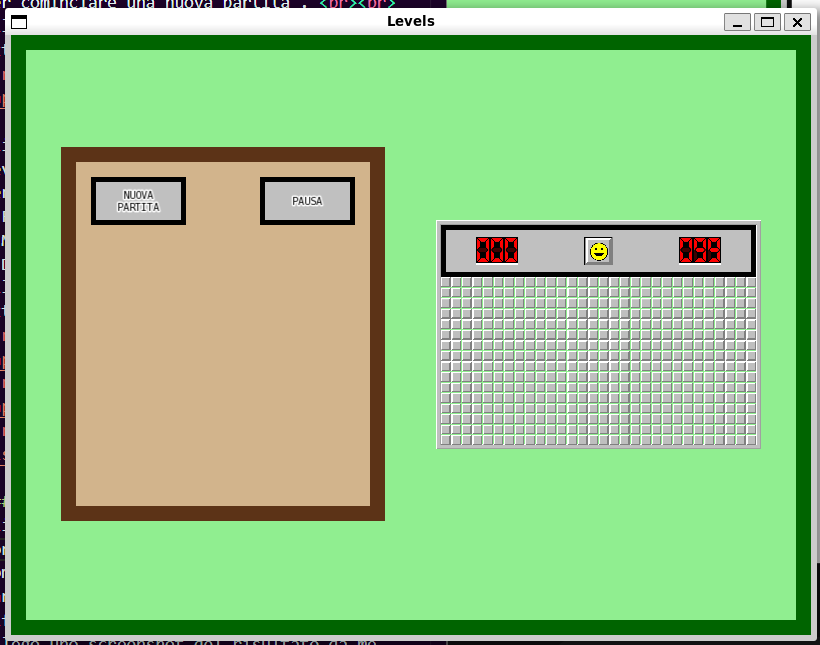
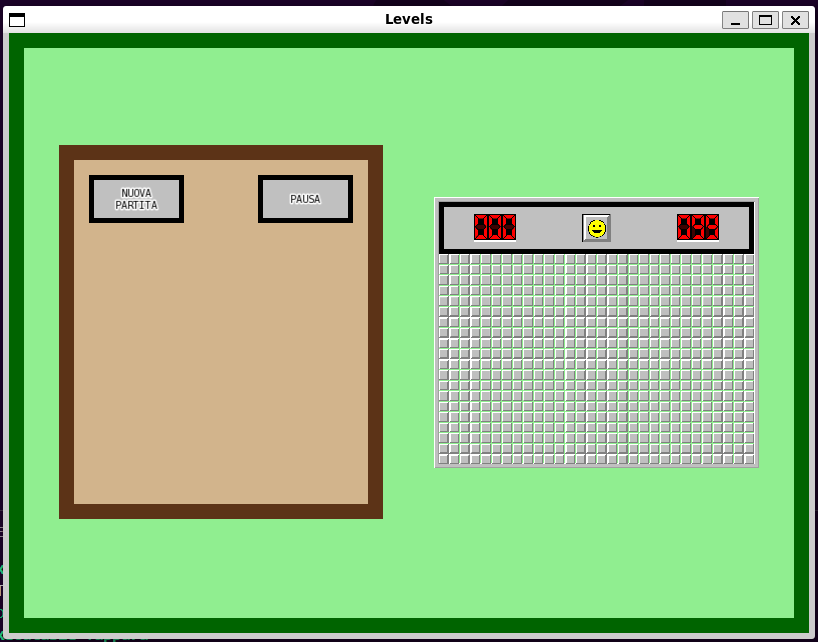
da rileggere

diff --git a/Tappa_6/6_levels.cpp b/Tappa_6/6_levels.cpp
@@ -1015,7 +1015,7 @@ void State::set_difficulty(Difficulty new_diff){
 
         case Difficulty::hard: //se la difficoltà scelta è HARD imposta le caratteristiche per la cella della modalità HARD (numero celle, numero mine e valore di gap) e imposta correttamete il valore della variabile diff in State
             diff = Difficulty::hard; 
-            game_panel.grid.cell_num = {30,16};
+            game_panel.grid.cell_num = {30,20};
             game_panel.grid.mine_num = 99;
             game_panel.gap = 0.8;
             break; 

diff --git a/Tappa_7a/7a_graphic_exit.cpp b/Tappa_7a/7a_graphic_exit.cpp
@@ -1016,7 +1016,7 @@ void State::set_difficulty(Difficulty new_diff){
 
         case Difficulty::hard:
             diff = Difficulty::hard;
-            game_panel.grid.cell_num = {30,16};
+            game_panel.grid.cell_num = {30,20};
             game_panel.grid.mine_num = 99;
             game_panel.gap = 0.8;
             break; 

diff --git a/Tappa_8/8_rules_and_title.cpp b/Tappa_8/8_rules_and_title.cpp
@@ -1092,7 +1092,7 @@ void State::set_difficulty(Difficulty new_diff){
 
         case Difficulty::hard:
             diff = Difficulty::hard;
-            game_panel.grid.cell_num = {30,16};
+            game_panel.grid.cell_num = {30,20};
             game_panel.grid.mine_num = 99;
             game_panel.gap = 0.8;
             break; 

diff --git a/README.md b/README.md
@@ -1,0 +1,30 @@
+# Minesweeper The Game (Versione Personalizzata E.0)
+## OBBIETTIVO DEL PROGETTO: 
+Questo progetto presenta come obbiettivo quello di creare una versione personalizzata del gioco Minesweeper (in italiano: Prato Fiorito/Campo Minato).<br>
+Per le regole e caratteristiche base del gioco si è preso spunto principalmente dai siti: 
+- [tictactoefree.com](https://tictactoefree.com/it/prato-fiorito/regole)
+- [wikipedia](https://it.wikipedia.org/wiki/Campo_minato_(videogioco))
+
+Invece, per lo sviluppo del progetto completo, ci si è focalizzati in particolare sulla:
+- possibilità di scegliere tra diverse difficoltà di gioco (FACILE; MEDIO; DIFFICILE) che si differenziano per il numero di mine e la dimensione della griglia;
+- creazione di una schermata iniziale contenente un benvenuto al gioco e la possibilità di scegliere la difficoltà della partita che si andrà a giocare
+- creazione della schermata di gioco principale contenente: 
+    * il titolo del gioco;
+    * un pannello di gioco costituito dalla griglia (che varia in dimensione in base alla difficoltà), dall'intestazione (con timer, la tipica faccina del classico Minesweeper e il contatore di bandierine) e dal bordo;
+    * un pannello di controllo che include un testo (contenente regole, obiettivo, difficoltà e numero mine nella griglia della partita corrente) e dei pulsanti per:
+        * mettere in pausa la partita;
+        * iniziare una nuova partita;
+        * l'uscita dalla schermata di gioco;
+- creazione di un pannello nella schermata di gioco visibile solo a fine/pausa di una partita che va ad indicare lo stato della partita in corso (pausa, vittoria, sconfitta) e permette di iniziare una nuova partita o uscire dalla schermata di gioco. <br>
+Detto pannello, inoltre, permette, se è stato indicato che si vuole iniziare una nuova partita, di selezionarne direttamente la nuova difficoltà;
+
+## TAPPE CREATE: 
+Per il progetto sono state create 14, in cui: 
+- ogni numero rappresenta una nuova funzionalità completa (ad esempio le tappe 1a,1b,1c insieme completano la versione base funzionante del gioco);
+- Le tappe con il suffisso 'graphic' nel nome del file implementano solo della nuova grafica rispetto alla tappa precedente;
+- le tappe il cui nome del file contiene la parola graphic implementano nel codice della tappa precedente solo della nuova grafica;
+- le tappe il cui nome del file contiene la parola interactive rendono interattiva la grafica implementata nella tappa precedente;
+- ogni tappa, come richiesto, presenta, oltre al file di codice, un file di documentazione che spiega nel dettagli detta tappa. <br>
+In particolare, nella sezione 'Problemi riscontrati e soluzioni' delle varie documentazioni sono stati riportati i problemi riscontrati segnati nei vari file di documentazione sono solo i problemi complessi che hanno richiesto tempo per essere risolti. Per i problemi minori, risolti velocemente tramite piccole modifiche, sono stati utilizzati dei commenti nel codice con la scritta 'MODIFICATO';
+
+

diff --git a/Tappa_6/Tappa_6.md b/Tappa_6/Tappa_6.md
@@ -10,7 +10,7 @@ Le modalità saranno:
     * dimensione griglia: 16x16 celle
     * numero mine: 40
 - DIFFICILE: 
-    * dimensione griglia: 30X16 celle
+    * dimensione griglia: 30x20 celle
     * numero mine: 99 
 Rendere possibile, inoltre, la scelta della difficoltà di gioco già dalla schermata iniziale.
 
@@ -40,7 +40,7 @@ Allego uno screenshot del risultato da me ottenuto:
 Cliccando sui rispettivi pulsanti, la griglia deve adattarsi alle dimensioni specificate per la difficoltà scelta: 
 - FACILE: griglia 9x9 e 15 mine. 
 - MEDIO: griglia 16x16 e 40 mine. 
-- DIFFICILE: griglia 30x16 e 99 mine. <br><br>
+- DIFFICILE: griglia 30x20 e 99 mine. <br><br>
 Allego degli screenshot dei risultati da me ottenuti:  
 ![risultato_sei_facile](../risorse/risultati/tappa6_facile.png)
 ![risultato_sei_medio](../risorse/risultati/tappa6_medio.png)
